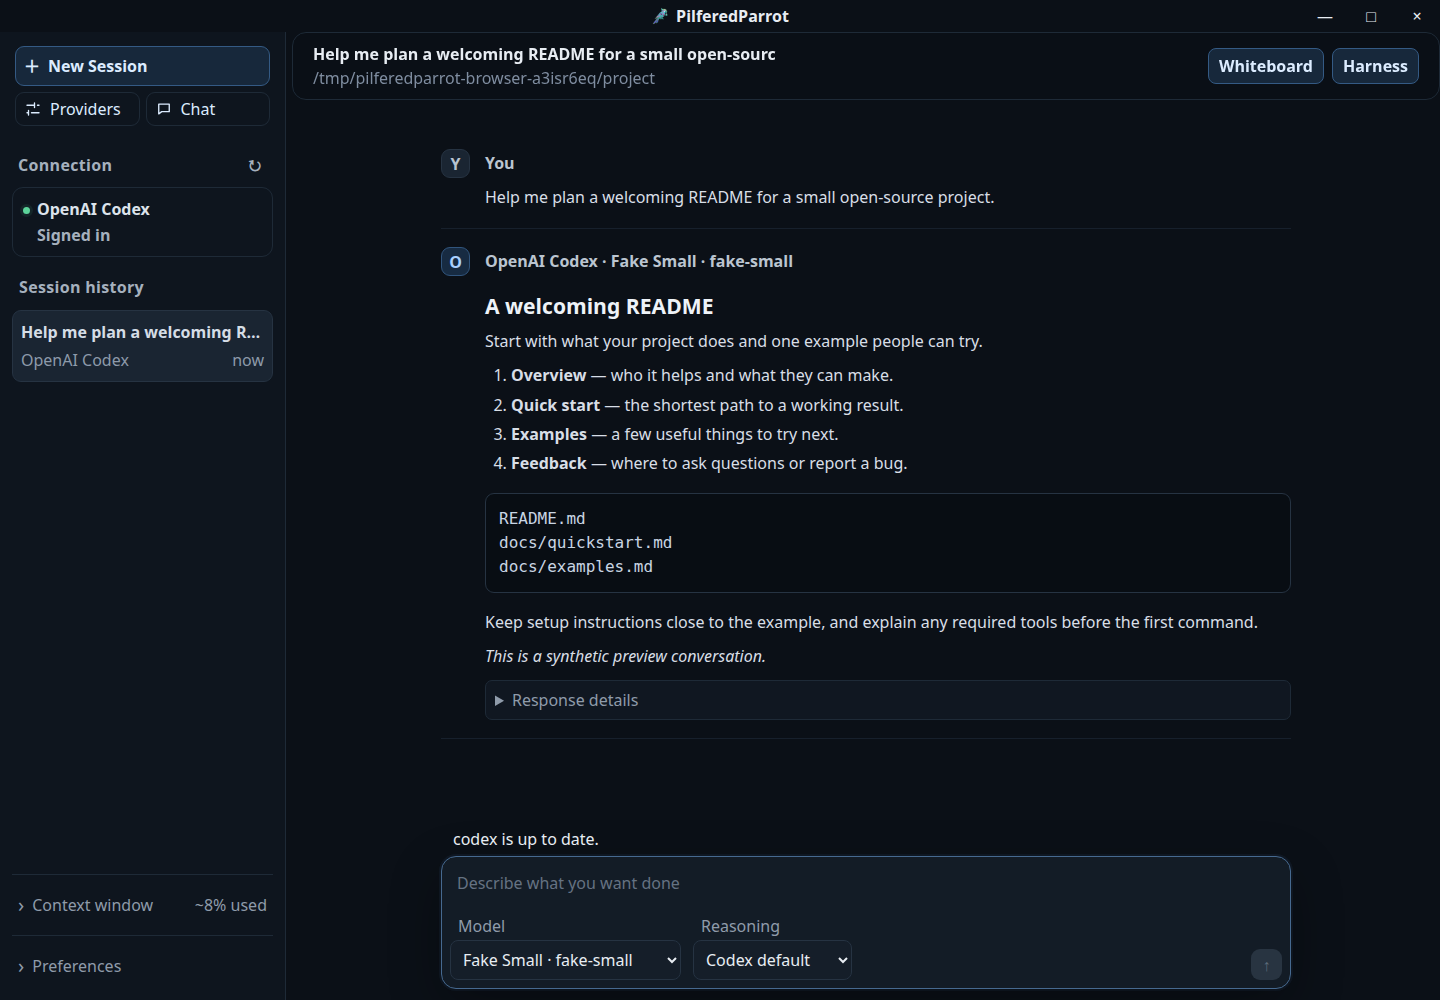
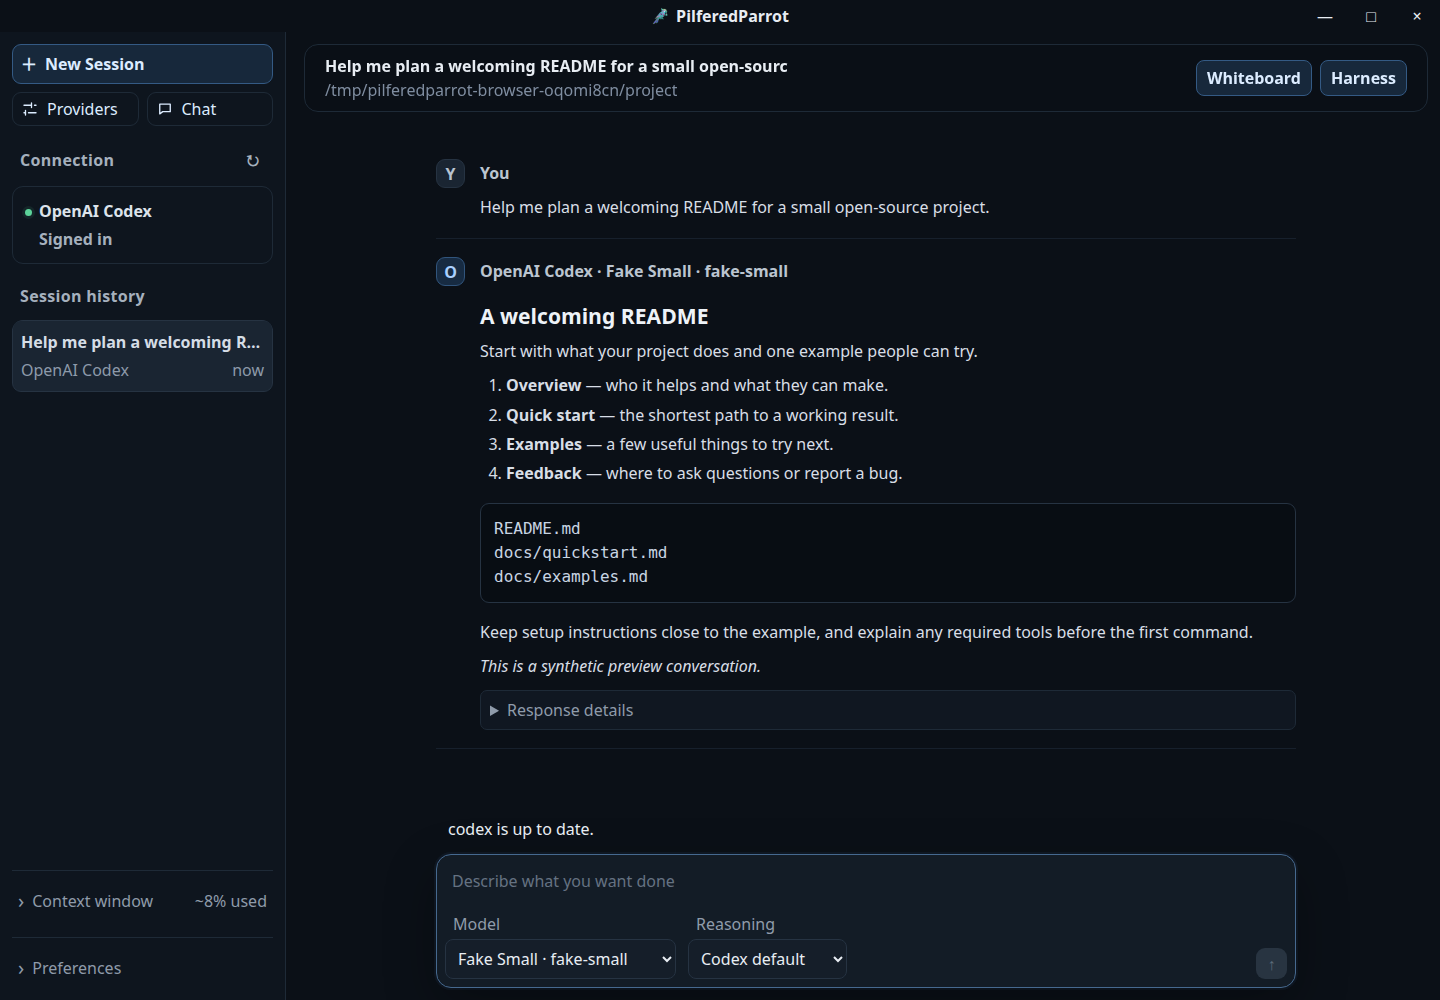
Separate interface panels and keep narrow Work composers visible (#20)

diff --git a/docs/index.html b/docs/index.html
@@ -87,12 +87,12 @@
 <body>
   <header class="wrap topbar">
     <a class="brand" href="#top" aria-label="PilferedParrot Interface home"><img src="assets/pilferedparrot-icon.png" alt=""><span>PilferedParrot Interface</span></a>
-    <nav aria-label="Primary navigation"><a href="#how">How it works</a><a href="#providers">Providers</a><a class="button primary" href="https://github.com/PilferedParrot/PilferedParrot-Interface/releases/tag/v0.7.0-rc.10">Preview downloads</a></nav>
+    <nav aria-label="Primary navigation"><a href="#how">How it works</a><a href="#providers">Providers</a><a class="button primary" href="https://github.com/PilferedParrot/PilferedParrot-Interface/releases/tag/v0.7.0-rc.11">Preview downloads</a></nav>
   </header>
   <main id="top">
-    <section class="section"><div class="wrap"><p><strong>0.7.0-rc.10 preview</strong> — preview downloads are available for Linux source users and Windows 10/11 x64. Linux 0.6.1 remains the stable release. <a href="https://github.com/PilferedParrot/PilferedParrot-Interface/releases/tag/v0.7.0-rc.10">Preview downloads</a> · <a href="https://github.com/PilferedParrot/PilferedParrot-Interface/releases/download/v0.7.0-rc.10/PilferedParrot-0.7.0-rc.10-windows-x64.zip">Windows ZIP</a></p></div></section>
+    <section class="section"><div class="wrap"><p><strong>0.7.0-rc.11 preview</strong> — preview downloads are available for Linux source users and Windows 10/11 x64. Linux 0.6.1 remains the stable release. <a href="https://github.com/PilferedParrot/PilferedParrot-Interface/releases/tag/v0.7.0-rc.11">Preview downloads</a> · <a href="https://github.com/PilferedParrot/PilferedParrot-Interface/releases/download/v0.7.0-rc.11/PilferedParrot-0.7.0-rc.11-windows-x64.zip">Windows ZIP</a></p></div></section>
     <section class="wrap hero">
-      <div><span class="eyebrow">0.7.0-rc.10 preview · Stable Linux 0.6.1 · Windows preview</span><h1>Your provider.<br><em>Your workspace.</em></h1><p>PilferedParrot Interface is a local browser interface for coding CLIs and compatible model APIs. Pick a provider for Work, then open a separate read-only Chat window when you need it.</p><div class="actions"><a class="button primary" href="https://github.com/PilferedParrot/PilferedParrot-Interface/releases/tag/v0.7.0-rc.10">Preview downloads <span aria-hidden="true">↗</span></a><a class="button ghost" href="https://github.com/PilferedParrot/PilferedParrot-Interface/releases/tag/v0.6.1">Stable Linux 0.6.1 <span aria-hidden="true">↗</span></a><a class="button ghost" href="https://github.com/PilferedParrot/PilferedParrot-Interface/releases/download/v0.7.0-rc.10/PilferedParrot-0.7.0-rc.10-windows-x64.zip">Windows preview ZIP <span aria-hidden="true">↗</span></a><a class="button ghost" href="https://github.com/PilferedParrot/PilferedParrot-Interface/releases/download/v0.7.0-rc.10/pilferedparrot-0.7.0-rc.10-source.tar.gz">Linux rc.10 source <span aria-hidden="true">↗</span></a><a class="button ghost" href="https://github.com/PilferedParrot/PilferedParrot-Interface">View the source</a></div><p class="micro">Apache 2.0 · Linux · Windows 10/11 x64 preview · Python 3.12+ source</p></div>
+      <div><span class="eyebrow">0.7.0-rc.11 preview · Stable Linux 0.6.1 · Windows preview</span><h1>Your provider.<br><em>Your workspace.</em></h1><p>PilferedParrot Interface is a local browser interface for coding CLIs and compatible model APIs. Pick a provider for Work, then open a separate read-only Chat window when you need it.</p><div class="actions"><a class="button primary" href="https://github.com/PilferedParrot/PilferedParrot-Interface/releases/tag/v0.7.0-rc.11">Preview downloads <span aria-hidden="true">↗</span></a><a class="button ghost" href="https://github.com/PilferedParrot/PilferedParrot-Interface/releases/tag/v0.6.1">Stable Linux 0.6.1 <span aria-hidden="true">↗</span></a><a class="button ghost" href="https://github.com/PilferedParrot/PilferedParrot-Interface/releases/download/v0.7.0-rc.11/PilferedParrot-0.7.0-rc.11-windows-x64.zip">Windows preview ZIP <span aria-hidden="true">↗</span></a><a class="button ghost" href="https://github.com/PilferedParrot/PilferedParrot-Interface/releases/download/v0.7.0-rc.11/pilferedparrot-0.7.0-rc.11-source.tar.gz">Linux rc.11 source <span aria-hidden="true">↗</span></a><a class="button ghost" href="https://github.com/PilferedParrot/PilferedParrot-Interface">View the source</a></div><p class="micro">Apache 2.0 · Linux · Windows 10/11 x64 preview · Python 3.12+ source</p></div>
       <div class="hero-art"><img src="assets/pilferedparrot-icon.png" alt="PilferedParrot parrot mark"></div>
     </section>
     <section class="section" id="how"><div class="wrap"><div class="section-heading"><span class="eyebrow">How Work and Chat relate</span><h2>Work stays focused.<br>Chat stays separate.</h2><p>You choose a provider and its model. PilferedParrot keeps work sessions and casual questions in separate windows, with your conversation history saved locally.</p></div><div class="grid-3"><article class="card"><span class="number">01</span><h3>Choose a provider</h3><p>Open Providers to see connection state, choose a model, and start a fixed-provider window. Add compatible APIs with a preset or your own endpoint.</p></article><article class="card"><span class="number">02</span><h3>Work sessions</h3><p>Work shows provider progress, commands, tool results, context estimates, and saved session history.</p></article><article class="card"><span class="number">03</span><h3>Separate Chat</h3><p>Open Chat in its own window for a separate read-only session. Its messages stay out of Work.</p></article></div></div></section>

diff --git a/pilferedparrot/web_assets/app.css b/pilferedparrot/web_assets/app.css
@@ -846,6 +846,7 @@ dialog::backdrop { background: rgba(0, 0, 0, .62); }
 
 @media (max-width: 760px) {
   .shell { display: block; }
+  .main { height: 100%; }
   .pane-resizer { display: none; }
   .sidebar { position: fixed; z-index: 20; inset: 0 auto 0 0; width: min(310px, 86vw); transform: translateX(-105%); box-shadow: var(--shadow); transition: transform .2s ease; }
   body.chrome-theme .sidebar { background: var(--chrome-theme-frame, #0e151e); }
@@ -1127,4 +1128,60 @@ body.native-window .header-actions { grid-column: 2; }
   .chat-header .header-brand { grid-column: 1; grid-row: 1; }
   .chat-header .header-context { grid-column: 1; grid-row: 2; }
   body.native-window .chat-header .header-context { grid-row: 1; }
+}
+
+/* Keep the two window surfaces on the same spacing rhythm. */
+.topbar,
+.chat-window-conversation .chat-header { margin: 12px 12px 0; }
+
+.sidebar,
+.chat-window-sidebar { gap: 16px; padding: 12px; }
+.sidebar > *,
+.chat-window-sidebar > * { flex-shrink: 0; }
+.sidebar > .history-group,
+.chat-window-sidebar > .chat-window-history { flex-shrink: 1; }
+
+.sidebar .provider-card,
+.chat-model-card { padding: 12px; }
+.sidebar-actions { gap: 8px; padding: 0; }
+.provider-status { margin-top: 0; }
+.section-heading, .history-heading { padding: 4px 8px; }
+.provider-list { margin-top: 8px; }
+.chat-window-history .chat-list { margin-top: 8px; padding: 0; }
+.technical-history .chat-list { padding: 0; }
+.chat-list { gap: 8px; }
+.sidebar-disclosure .context-pie-card { margin: 8px 0 0; }
+.sidebar-disclosure .chrome-theme-button { margin-top: 8px; }
+.provider-update { margin-bottom: 8px; }
+.provider-connection-list { gap: 16px; }
+.provider-connection-actions { gap: 8px; }
+.provider-card-head { gap: 4px; }
+.allowances { gap: 8px; margin-top: 8px; }
+.chat-model-card { gap: 8px; }
+.composer-setting { gap: 4px; }
+
+.messages {
+  width: min(860px, calc(100% - 32px));
+  padding-top: 24px;
+}
+.composer-wrap {
+  padding: 12px max(16px, calc((100% - 860px) / 2));
+}
+.chat-window-conversation .chat-messages,
+.chat-window-conversation .chat-composer-wrap {
+  width: min(860px, 100%);
+  padding-right: 16px;
+  padding-left: 16px;
+}
+
+@media (max-width: 760px) {
+  .topbar,
+  .chat-window-conversation .chat-header { margin: 8px 8px 0; }
+  .messages { width: calc(100% - 16px); }
+  .composer-wrap { padding: 8px; }
+  .chat-window-conversation .chat-messages,
+  .chat-window-conversation .chat-composer-wrap {
+    padding-right: 8px;
+    padding-left: 8px;
+  }
 }

diff --git a/tests/test_work_layout_browser_e2e.py b/tests/test_work_layout_browser_e2e.py
@@ -1,0 +1,119 @@
+"""Browser coverage for Work's responsive layout."""
+
+from __future__ import annotations
+
+import os
+import unittest
+
+try:
+    from playwright.sync_api import expect, sync_playwright
+except ModuleNotFoundError:
+    if os.environ.get("PILFEREDPARROT_REQUIRE_PLAYWRIGHT") == "1":
+        raise
+    expect = sync_playwright = None
+
+from playwright_fixture import PilferedParrotBrowserFixture
+
+
+@unittest.skipUnless(sync_playwright, "install requirements-browser.txt to run Playwright")
+class WorkLayoutBrowserEndToEndTests(unittest.TestCase):
+    @classmethod
+    def setUpClass(cls):
+        cls.playwright = sync_playwright().start()
+        try:
+            cls.browser = cls.playwright.chromium.launch(headless=True)
+        except BaseException:
+            cls.playwright.stop()
+            raise
+
+    @classmethod
+    def tearDownClass(cls):
+        cls.browser.close()
+        cls.playwright.stop()
+
+    def setUp(self):
+        self.fixture = PilferedParrotBrowserFixture()
+        self.addCleanup(self.fixture.stop)
+        self.context = self.browser.new_context(
+            viewport={"width": 320, "height": 568}, reduced_motion="reduce",
+        )
+        self.addCleanup(self.context.close)
+        self.page = self.context.new_page()
+        self.page_errors = []
+        self.page.on("pageerror", lambda error: self.page_errors.append(error))
+        self._goto(native=False)
+
+    def tearDown(self):
+        self.assertEqual(self.page_errors, [], "browser emitted an unhandled JavaScript error")
+
+    def _goto(self, *, native):
+        capability = self.fixture.app.issue_capability("dashboard", window_id="main", provider="codex")
+        fragment = f"capability={capability}&provider=codex"
+        if native:
+            self.page.route("**/api/window/native", lambda route: route.fulfill(json={
+                "supported": True, "marker": "PilferedParrot Native Preview", "ok": True,
+            }))
+            fragment += "&native-window=1"
+        self.page.goto("about:blank")
+        self.page.goto(
+            f"{self.fixture.base_url}/#{fragment}",
+            wait_until="domcontentloaded",
+        )
+        expect(self.page.get_by_role("textbox", name="Message")).to_be_enabled(timeout=5_000)
+        if native:
+            expect(self.page.locator("#nativeTitlebar")).to_be_visible()
+
+    def _assert_layout(self, width, height):
+        self.page.set_viewport_size({"width": width, "height": height})
+        self.page.wait_for_function(
+            "size => window.innerWidth === size.width && window.innerHeight === size.height",
+            arg={"width": width, "height": height},
+        )
+        metrics = self.page.evaluate(
+            """() => {
+                const rect = selector => document.querySelector(selector).getBoundingClientRect();
+                const viewport = { width: window.innerWidth, height: window.innerHeight };
+                const header = rect('.topbar');
+                const composer = rect('.composer');
+                const send = rect('#sendButton');
+                return {
+                    viewport,
+                    documentScrollWidth: document.documentElement.scrollWidth,
+                    documentScrollHeight: document.documentElement.scrollHeight,
+                    bodyScrollWidth: document.body.scrollWidth,
+                    bodyScrollHeight: document.body.scrollHeight,
+                    header,
+                    composer,
+                    send,
+                };
+            }"""
+        )
+        viewport = metrics["viewport"]
+        self.assertLessEqual(metrics["documentScrollWidth"], viewport["width"])
+        self.assertLessEqual(metrics["bodyScrollWidth"], viewport["width"])
+        self.assertGreater(metrics["header"]["left"], 0)
+        self.assertGreater(metrics["header"]["top"], 0)
+        for name in ("composer", "send"):
+            box = metrics[name]
+            self.assertGreater(box["width"], 0, name)
+            self.assertGreater(box["height"], 0, name)
+            self.assertGreaterEqual(box["left"], -0.5, name)
+            self.assertGreaterEqual(box["top"], -0.5, name)
+            self.assertLessEqual(box["right"], viewport["width"] + 0.5, name)
+            self.assertLessEqual(box["bottom"], viewport["height"] + 0.5, name)
+
+    def test_work_composer_stays_in_view_at_responsive_sizes(self):
+        for width, height in ((320, 568), (390, 844), (1024, 600)):
+            with self.subTest(width=width, height=height, native=False):
+                self._assert_layout(width, height)
+
+        self._goto(native=True)
+        self.page.locator("#prompt").fill("Keep the message box visible while I write.")
+        expect(self.page.locator("#sendButton")).to_be_enabled()
+        for width, height in ((320, 568), (1024, 600)):
+            with self.subTest(width=width, height=height, native=True):
+                self._assert_layout(width, height)
+
+
+if __name__ == "__main__":
+    unittest.main()

diff --git a/tests/test_windows_package.py b/tests/test_windows_package.py
@@ -81,7 +81,7 @@ class WindowsPackageSourceTests(unittest.TestCase):
 
     def test_versioned_archive_and_executable_names_are_fixed(self):
         build = (ROOT / "packaging/windows/build.ps1").read_text()
-        self.assertIn('$Version = "0.7.0-rc.10"', build)
+        self.assertIn('$Version = "0.7.0-rc.11"', build)
         self.assertIn("PilferedParrot-$Version-windows-x64.zip", build)
         self.assertIn('PilferedParrot.exe', build)
 

diff --git a/pilferedparrot/__init__.py b/pilferedparrot/__init__.py
@@ -1,3 +1,3 @@
 """PilferedParrot: a direct browser interface for local and CLI model providers."""
 
-__version__ = "0.7.0-rc.10"
+__version__ = "0.7.0-rc.11"

diff --git a/README.md b/README.md
@@ -4,25 +4,26 @@ PilferedParrot Interface (PPI) is a local browser interface for coding CLIs and 
 model APIs. Choose the provider for a work session, keep its project and history together, and
 open a separate read-only Chat window when you need a quick question.
 
-The current checkout is the **0.7.0-rc.10 preview**. Linux 0.6.1 remains the stable release;
+The current checkout is the **0.7.0-rc.11 preview**. Linux 0.6.1 remains the stable release;
 the Windows 10/11 x64 build is a portable preview. Preview downloads are available from the
-[0.7.0-rc.10 release](https://github.com/PilferedParrot/PilferedParrot-Interface/releases/tag/v0.7.0-rc.10).
+[0.7.0-rc.11 release](https://github.com/PilferedParrot/PilferedParrot-Interface/releases/tag/v0.7.0-rc.11).
 
 [Project site](https://pilferedparrot.github.io/PilferedParrot-Interface/) ·
-[Linux rc.10 source archive](https://github.com/PilferedParrot/PilferedParrot-Interface/releases/download/v0.7.0-rc.10/pilferedparrot-0.7.0-rc.10-source.tar.gz) ·
+[Linux rc.11 source archive](https://github.com/PilferedParrot/PilferedParrot-Interface/releases/download/v0.7.0-rc.11/pilferedparrot-0.7.0-rc.11-source.tar.gz) ·
 [Stable Linux release](https://github.com/PilferedParrot/PilferedParrot-Interface/releases/tag/v0.6.1) ·
 [Release notes](RELEASE_NOTES.md) ·
-[Windows preview ZIP](https://github.com/PilferedParrot/PilferedParrot-Interface/releases/download/v0.7.0-rc.10/PilferedParrot-0.7.0-rc.10-windows-x64.zip) ·
+[Windows preview ZIP](https://github.com/PilferedParrot/PilferedParrot-Interface/releases/download/v0.7.0-rc.11/PilferedParrot-0.7.0-rc.11-windows-x64.zip) ·
 [Report a bug](https://github.com/PilferedParrot/PilferedParrot-Interface/issues/new?template=bug_report.yml) ·
 [Share feedback](https://github.com/PilferedParrot/PilferedParrot-Interface/issues/new/choose)
 
 ![PilferedParrot Work preview](docs/assets/work-preview.png)
 
-*The image shows the rounded session header and transparent custom title bar, using a synthetic conversation with no real account or chat data.*
+*The image shows the spaced session header and grouped sidebar controls, using a synthetic conversation with no real account or chat data.*
 
-Preview rc.10 rounds the Work and Chat headers and lets the page background continue
-through the Linux/X11 custom title bar, including theme pictures. Windows receives
-the rounded interface headers; its outer title bar remains drawn by Chrome or Edge.
+Preview rc.11 gives Work and Chat consistent space around headers, between sidebar
+sections, and inside grouped controls. Linux and Windows share the layout update.
+The Linux/X11 custom title bar stays transparent; the outer Windows title bar
+remains drawn by Chrome or Edge.
 
 ## What it does
 
@@ -72,7 +73,7 @@ for authentication and integration limits.
 
 ### Upgrading an existing installation
 
-Download the [rc.10 source archive](https://github.com/PilferedParrot/PilferedParrot-Interface/releases/download/v0.7.0-rc.10/pilferedparrot-0.7.0-rc.10-source.tar.gz),
+Download the [rc.11 source archive](https://github.com/PilferedParrot/PilferedParrot-Interface/releases/download/v0.7.0-rc.11/pilferedparrot-0.7.0-rc.11-source.tar.gz),
 extract it, and run `./bin/pilferedparrot --version` before replacing your launcher with
 `./bin/install-pilferedparrot-desktop`. Keep the extracted directory in place. Existing
 configuration, browser profiles, conversations, and run metadata remain in their current local
@@ -80,7 +81,7 @@ state directory; do not replace your `config.json` unless you intend to reconfig
 
 ## Windows preview
 
-Download the [0.7.0-rc.10 Windows x64 ZIP](https://github.com/PilferedParrot/PilferedParrot-Interface/releases/download/v0.7.0-rc.10/PilferedParrot-0.7.0-rc.10-windows-x64.zip),
+Download the [0.7.0-rc.11 Windows x64 ZIP](https://github.com/PilferedParrot/PilferedParrot-Interface/releases/download/v0.7.0-rc.11/PilferedParrot-0.7.0-rc.11-windows-x64.zip),
 extract it to a directory you control, and run `PilferedParrot.exe`. The package includes Python,
 needs no installation or administrator rights, and uses Chrome, Chromium, or Microsoft Edge. Keep
 the console window open while PPI runs and keep the extracted directory together. The executable

diff --git a/RELEASE_NOTES.md b/RELEASE_NOTES.md
@@ -1,3 +1,14 @@
+## PilferedParrot Interface 0.7.0-rc.11 preview
+
+Work and Chat now leave space around their rounded headers and use consistent
+gaps between sidebar sections, cards, and related controls. Composer and message
+gutters align. A narrow-window layout fix keeps the Work message box and Send
+button inside the visible window.
+
+Linux/source and Windows x64 packages include the same spacing update. Reopen
+the updated app after current jobs finish to load the new stylesheet. This remains
+a preview alongside stable Linux 0.6.1.
+
 ## PilferedParrot Interface 0.7.0-rc.10 preview
 
 Work session headers and Chat headers now have four rounded corners, matching the
